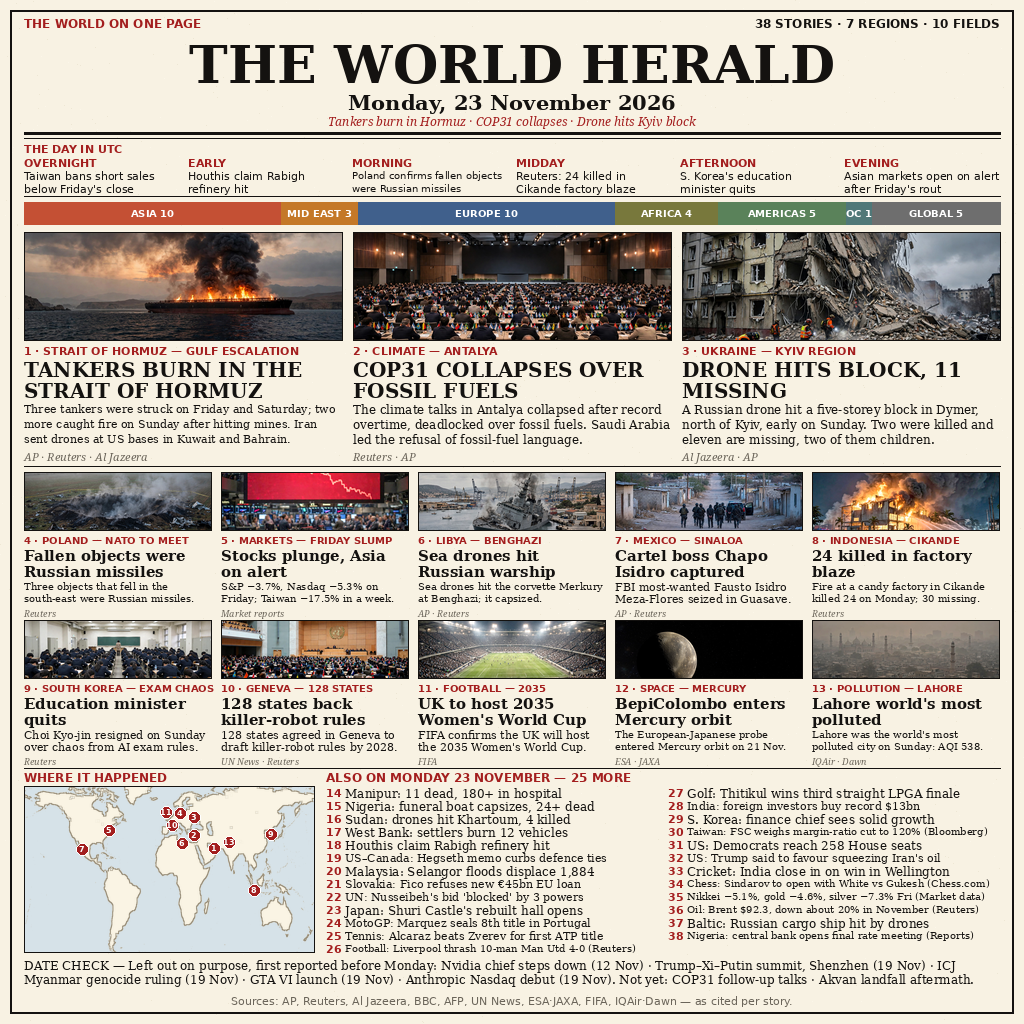
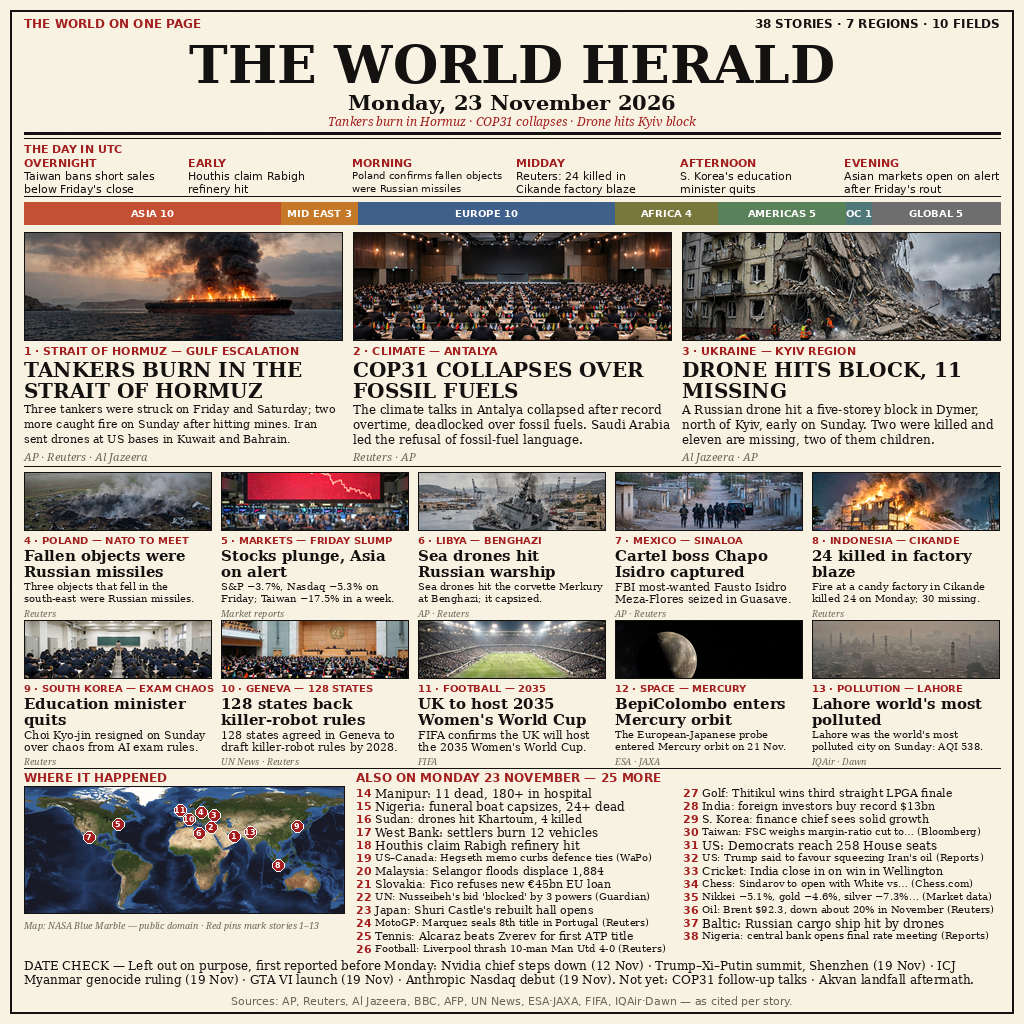
news-image-20261123 v7: realistic map colors + true proportions

Changed region(s): [[0.0, 0.75, 0.9688, 0.9375]]

diff --git a/tools/recolor_map.py b/tools/recolor_map.py
@@ -1,10 +1,14 @@
-"""Recolor a real equirectangular world map into the page palette.
+"""Keep the real NASA Blue Marble colours for the front-page world map.
 
-Build-time tool for THE WORLD HERALD (news-image-20261123 v6). It turns
-the NASA Blue Marble Next Generation world map (public domain) into the
-small flat-colour map the front page pastes under WHERE IT HAPPENED.
+Build-time tool for THE WORLD HERALD (news-image-20261123 v7). It
+turns the NASA Blue Marble Next Generation world map (public domain)
+into the small map the front page pastes under WHERE IT HAPPENED —
+with the satellite's own colours kept: deep blue ocean, green and
+brown land, white ice, real texture. v6 flattened the same source
+into one cream land colour and one pale-blue sea colour, and the map
+read as a flat cartoon; v7 keeps the photograph.
 
-Source (downloaded once, kept outside the repo):
+Source (downloaded once, kept outside the repo in /tmp):
     NASA Blue Marble: Next Generation + topography + bathymetry,
     August 2004, 3600x1800 JPEG, equirectangular (Plate Carree),
     lon -180..180, lat 90..-90. Produced by Reto Stoeckli, NASA Earth
@@ -13,24 +17,21 @@ Source (downloaded once, kept outside the repo):
     "Blue Marble Next Generation + topography + bathymetry.jpg".
     Direct file: https://upload.wikimedia.org/wikipedia/commons/5/56/
     Blue_Marble_Next_Generation_%2B_topography_%2B_bathymetry.jpg
-    The source is a JPEG; the repo asset is the recolored PNG this
-    script writes (assets/world-map.png). The entry program only ever
-    reads that PNG, so the render needs no network.
+    The repo asset is the PNG this script writes
+    (assets/world-map.png). The entry program only ever reads that
+    PNG, so the render needs no network.
 
-Method (no data file is read in: the land/ocean split is computed here
-from the picture itself):
-    1. A pixel is ocean when its blue channel beats red by more than 12
-       and green by more than 8. Deep ocean, shallow turquoise water and
-       the Persian Gulf all pass; green forest, tan desert, brown rock
-       and white ice all fail, so they read as land.
-    2. A 3x3 median filter clears single-pixel speckle (JPEG noise and
-       tiny islands too small to draw).
-    3. The latitude window lat 75..-55 is cropped (the same window the
-       front page pins use), then the mask is resized to the 290x166 map
-       box with LANCZOS, which anti-aliases the coastlines.
-    4. Land is painted cream (250, 244, 228), ocean pale blue
-       (214, 226, 232), and the one-pixel coastline edge is painted a
-       muted tan (150, 140, 120), all in the page palette.
+Method (no data file is read in: the picture itself is the map):
+    1. Crop the latitude window lat 83..-60 — the same window the
+       front-page pins use — so the picture and the pins share one
+       equirectangular projection.
+    2. Resize to the 320x127 map box with LANCZOS. 360 degrees of
+       longitude over 143 degrees of latitude is an aspect of 2.52,
+       and 320/127 is 2.52, so the continents keep their true
+       proportions instead of the 1.58x vertical stretch of v6.
+    3. Light touches only, so it sits on newsprint without shouting:
+       desaturate to 0.88, contrast 1.06, then blend 10% toward the
+       paper colour. Land is never flattened to one colour.
 
 Usage:
     python3 tools/recolor_map.py /tmp/bluemarble.jpg assets/world-map.png
@@ -39,63 +40,60 @@ Usage:
 import hashlib
 import sys
 
-from PIL import Image, ImageChops, ImageFilter
+from PIL import Image, ImageEnhance
 
-# Map box on the front page: lon -180..180, lat 75..-55, 290x166 px.
-MAP_W, MAP_H = 290, 166
-LAT_N, LAT_S = 75, -55
+# Map box on the front page: lon -180..180, lat 83..-60, 320x127 px.
+# True equirectangular aspect: 360/143 = 2.52; box aspect 320/127 =
+# 2.52. v6 used 290x166 for 360x130 degrees (aspect 1.75 against a
+# true 2.77), which stretched every continent 1.58x vertically.
+MAP_W, MAP_H = 320, 127
+LAT_N, LAT_S = 83, -60
 
-OCEAN = (214, 226, 232)
-LAND = (250, 244, 228)
-COAST = (150, 140, 120)
-
-
-def ocean_mask(img):
-    """Binary mask (255 = ocean) from the blue-dominance test."""
-    r, g, b = img.split()
-    over_red = ImageChops.subtract(b, r).point(lambda v: 255 if v > 12 else 0)
-    over_green = ImageChops.subtract(b, g).point(lambda v: 255 if v > 8 else 0)
-    ocean = ImageChops.multiply(over_red, over_green)
-    return ocean.filter(ImageFilter.MedianFilter(3))
+PAPER = (248, 242, 227)
 
 
-def recolor(source, target):
-    """Build the flat-colour map PNG and return its stats."""
+def natural_map(source, target):
+    """Build the true-colour map PNG and return its stats."""
     img = Image.open(source).convert("RGB")
     width, height = img.size
     if width != 2 * height:
         raise SystemExit("source is not 2:1 equirectangular: %s" % (img.size,))
-    land = ImageChops.invert(ocean_mask(img))
-    # Latitude window of the front-page map box.
+    # Latitude window of the front-page map box. lat 83..-60 keeps
+    # Greenland and Svalbard in frame while cutting Antarctica (its
+    # white mass would eat the bottom fifth of the box) and the empty
+    # polar ocean above 83N, so the inhabited continents fill the box.
     y0 = int((90 - LAT_N) / 180 * height)
     y1 = int((90 - LAT_S) / 180 * height)
-    land = land.crop((0, y0, width, y1)).resize((MAP_W, MAP_H), Image.LANCZOS)
-    ocean_img = Image.new("RGB", (MAP_W, MAP_H), OCEAN)
-    land_img = Image.new("RGB", (MAP_W, MAP_H), LAND)
-    page = Image.composite(land_img, ocean_img, land)
-    # Coastline: land pixels next to ocean, painted muted tan.
-    eroded = land.filter(ImageFilter.MinFilter(3))
-    edge = ImageChops.subtract(land, eroded)
-    coast_img = Image.new("RGB", (MAP_W, MAP_H), COAST)
-    page = Image.composite(coast_img, page, edge)
-    page.save(target, format="PNG", optimize=True)
-    hist = land.histogram()
-    total = sum(hist)
-    land_frac = sum(hist[128:]) / total
+    img = img.crop((0, y0, width, y1)).resize((MAP_W, MAP_H), Image.LANCZOS)
+    if img.size != (MAP_W, MAP_H):
+        raise SystemExit("resized map is %s, the box is %s"
+                         % (img.size, (MAP_W, MAP_H)))
+    # Light touches only: a little less saturation, a little more
+    # contrast, then a whisper of the paper colour so the satellite
+    # photograph sits on the newsprint instead of shouting off it.
+    img = ImageEnhance.Color(img).enhance(0.88)
+    img = ImageEnhance.Contrast(img).enhance(1.06)
+    paper = Image.new("RGB", (MAP_W, MAP_H), PAPER)
+    img = Image.blend(img, paper, 0.10)
+    img.save(target, format="PNG", optimize=True)
     with open(target, "rb") as fh:
         data = fh.read()
+    px = list(img.getdata())
+    n = len(px)
+    mean = tuple(round(sum(c[i] for c in px) / n) for i in range(3))
     return {
         "target": target,
         "bytes": len(data),
         "sha256": hashlib.sha256(data).hexdigest(),
-        "land_fraction": round(land_frac, 3),
+        "size": (MAP_W, MAP_H),
+        "mean_rgb": mean,
     }
 
 
 def main(argv):
     if len(argv) != 3:
         raise SystemExit("usage: recolor_map.py <source.jpg> <world-map.png>")
-    info = recolor(argv[1], argv[2])
+    info = natural_map(argv[1], argv[2])
     print(info)
     return 0
 

diff --git a/composer.py b/composer.py
@@ -5,11 +5,13 @@ big date, a THE DAY IN UTC strip, a region-count bar, three big leads
 with press photographs, ten medium grid stories, a world map with
 numbered pins, twenty-five one-line briefs, and a DATE CHECK footer.
 The map is a real equirectangular world map (NASA Blue Marble, public
-domain) recolored into the page palette by tools/recolor_map.py (v6),
-so its continents are the real ones at full detail. Grid thumbnails
-are 58 px tall (v6), up from 52, and the darkest grid photos are
-gamma-lifted by tools/brighten_grid.py, so every thumbnail reads;
-every lead body ends on a full stop inside its 3-line box.
+domain) kept in its true satellite colours and true proportions by
+tools/recolor_map.py (v7), so it reads as a photograph of the Earth,
+not a flat drawing: deep blue ocean, green and brown land, white polar
+ice. Grid thumbnails are 58 px tall (v6), up from 52, and the darkest
+grid photos are gamma-lifted by tools/brighten_grid.py, so every
+thumbnail reads; every lead body ends on a full stop inside its
+3-line box.
 
 Thirty-eight stories in all, every one named with its source, from the
 stories in stories.py. All thirteen pictures are generated press
@@ -307,16 +309,18 @@ ART = {
     "smog": art_smog,
 }
 
-# World map, in a 290 x 166 box: lon -180..180, lat 75..-55,
-# equirectangular. v6 replaces the hand-written coastline polygons of
-# v4/v5 with a real world map: NASA Blue Marble Next Generation +
-# topography + bathymetry (public domain), recolored into the page
-# palette by tools/recolor_map.py and stored as assets/world-map.png.
+# World map, in a 320 x 127 box: lon -180..180, lat 83..-60,
+# equirectangular. v6 used a 290x166 box for 360x130 degrees and
+# stretched every continent 1.58x vertically; v7 keeps the true
+# equirectangular aspect (360/143 = 2.52, box 320/127 = 2.52) and
+# the satellite's own colours: NASA Blue Marble Next Generation +
+# topography + bathymetry (public domain), lightly toned for the
+# newsprint by tools/recolor_map.py and stored as assets/world-map.png.
 # Pins are still projected from true (lon, lat) with the same function
 # as the map image, so each pin sits on the right spot of the map.
-MAP_W, MAP_H = 290, 166
+MAP_W, MAP_H = 320, 127
 MAP_LON_W, MAP_LON_E = -180, 180
-MAP_LAT_N, MAP_LAT_S = 75, -55
+MAP_LAT_N, MAP_LAT_S = 83, -60
 
 
 def lonlat_to_xy(lon, lat):
@@ -330,7 +334,7 @@ _MAP_CACHE = None
 
 
 def map_image():
-    """The recolored real world map for the box, cached; 290x166."""
+    """The true-colour real world map for the box, cached; 320x127."""
     global _MAP_CACHE
     if _MAP_CACHE is None:
         _MAP_CACHE = Image.open(os.path.join(ASSETS, "world-map.png"))
@@ -351,8 +355,15 @@ PINS_LATLON = {
 }
 # Tiny spreads (a few pixels, in box coordinates) so no two pin
 # circles in crowded Europe sit on top of each other; each nudge
-# stays on the same country as the true position.
-PIN_NUDGE = {4: (-4, -2), 6: (-3, 2), 10: (-2, 2), 11: (-3, -1)}
+# stays on the same country as the true position. Recomputed for
+# the v7 box (320x127, lat 83..-60), where one pixel is 1.13 degrees:
+# a 3 px south nudge would push Geneva into the Mediterranean, so
+# 10 sits on its true position; 11 goes up-left onto Scotland, 4
+# up onto northern Poland, 3 right into eastern Ukraine, and 6
+# down-left along the Libyan coast, away from Antalya. Pin 2 stays
+# on Antalya itself: the city is on the coast, so its centre pixel
+# reads as sea while the circle straddles the shoreline.
+PIN_NUDGE = {3: (3, 0), 4: (0, -2), 6: (-3, 2), 11: (-4, -2)}
 PINS = {}
 for _num, (_lon, _lat) in PINS_LATLON.items():
     _px, _py = lonlat_to_xy(_lon, _lat)
@@ -495,10 +506,13 @@ def render(out_path):
                       font=font("serif_italic", 9), fill=GREY)
     rule(draw, 768, 1)
 
-    # Map + briefs.
+    # Map + briefs. v7: the map box is 320x127 at true equirectangular
+    # aspect, so the briefs start at x=356 in two 317 px columns (the
+    # longest brief still fits at 12 pt). A one-line credit sits under
+    # the map, filling the space the shorter true-aspect box leaves.
     draw.text((MARGIN, 770), "WHERE IT HAPPENED",
               font=font("sans_bold", 12), fill=RED)
-    draw.text((MARGIN + 302, 770), "ALSO ON MONDAY 23 NOVEMBER \u2014 25 MORE",
+    draw.text((MARGIN + 332, 770), "ALSO ON MONDAY 23 NOVEMBER \u2014 25 MORE",
               font=font("sans_bold", 12), fill=RED)
     mx, my, mw, mh = MARGIN, 786, MAP_W, MAP_H
     _PAGE.paste(map_image(), (mx, my))
@@ -510,10 +524,14 @@ def render(out_path):
         tw = draw.textlength(str(num), font=nf)
         draw.text((mx + px - tw / 2, my + py - 5), str(num), font=nf,
                   fill=(255, 255, 255))
+    draw.text((MARGIN, 919),
+              "Map: NASA Blue Marble \u2014 public domain \u00b7 Red pins "
+              "mark stories 1\u201313",
+              font=font("serif_italic", 9), fill=GREY)
     # Briefs in two columns: 13 left, 12 right.
-    brief_w = 332
+    brief_w = 317
     for col in range(2):
-        bx = MARGIN + 302 + col * (brief_w + 10)
+        bx = MARGIN + 332 + col * (brief_w + 10)
         chunk = stories.BRIEFS[col * 13:(col + 1) * 13]
         by = 786
         for num, text, source in chunk:

diff --git a/README.md b/README.md
@@ -34,14 +34,17 @@ All thirteen pictures on the page are generated press photographs; the
 world map is a real one. Its source is the NASA Blue Marble Next
 Generation world map with topography and bathymetry (August 2004,
 3600x1800, equirectangular, produced by Reto Stoeckli, NASA Earth
-Observatory) — NASA imagery is public domain — recolored into the page
-palette (cream land, pale-blue sea) by `tools/recolor_map.py`, which
-computes the land/ocean split from the picture itself. The recolored
-map is stored as `assets/world-map.png`; the entry program only ever
-reads that PNG, so the render needs no network. The six darkest grid
-photographs were gamma-lifted in place by `tools/brighten_grid.py`
-(v6), and Mercury's thumbnail focus was moved onto the lit planet, so
-every grid thumbnail reads at its small size.
+Observatory) — NASA imagery is public domain — kept in its true
+satellite colours (deep blue ocean, green and brown land, white polar
+ice) and true equirectangular proportions (320x127 for lon -180..180,
+lat 83..-60) by `tools/recolor_map.py` (v7; v6 flattened the same
+source to one cream land colour and stretched it 1.58x vertically,
+which read as a flat cartoon). The map is stored as
+`assets/world-map.png`; the entry program only ever reads that PNG,
+so the render needs no network. The six darkest grid photographs
+were gamma-lifted in place by `tools/brighten_grid.py` (v6), and
+Mercury's thumbnail focus was moved onto the lit planet, so every
+grid thumbnail reads at its small size.
 
 ## How it runs
 
@@ -84,5 +87,6 @@ MAKEFUN_FORCE_FALLBACK=1 MAKEFUN_OUTPUT_DIR=out python3 main.py
 - `assets/` — the prebuilt `entry.png`, the recolored world map
   (`world-map.png`) plus the thirteen press photographs
   (`photo-*.webp`) and their provenance in `photos.json`
-- `tools/` — `recolor_map.py` (NASA map into the page palette) and
-  `brighten_grid.py` (gamma lift for the darkest grid photos)
+- `tools/` — `recolor_map.py` (NASA map in true satellite colours and
+  proportions) and `brighten_grid.py` (gamma lift for the darkest
+  grid photos)
